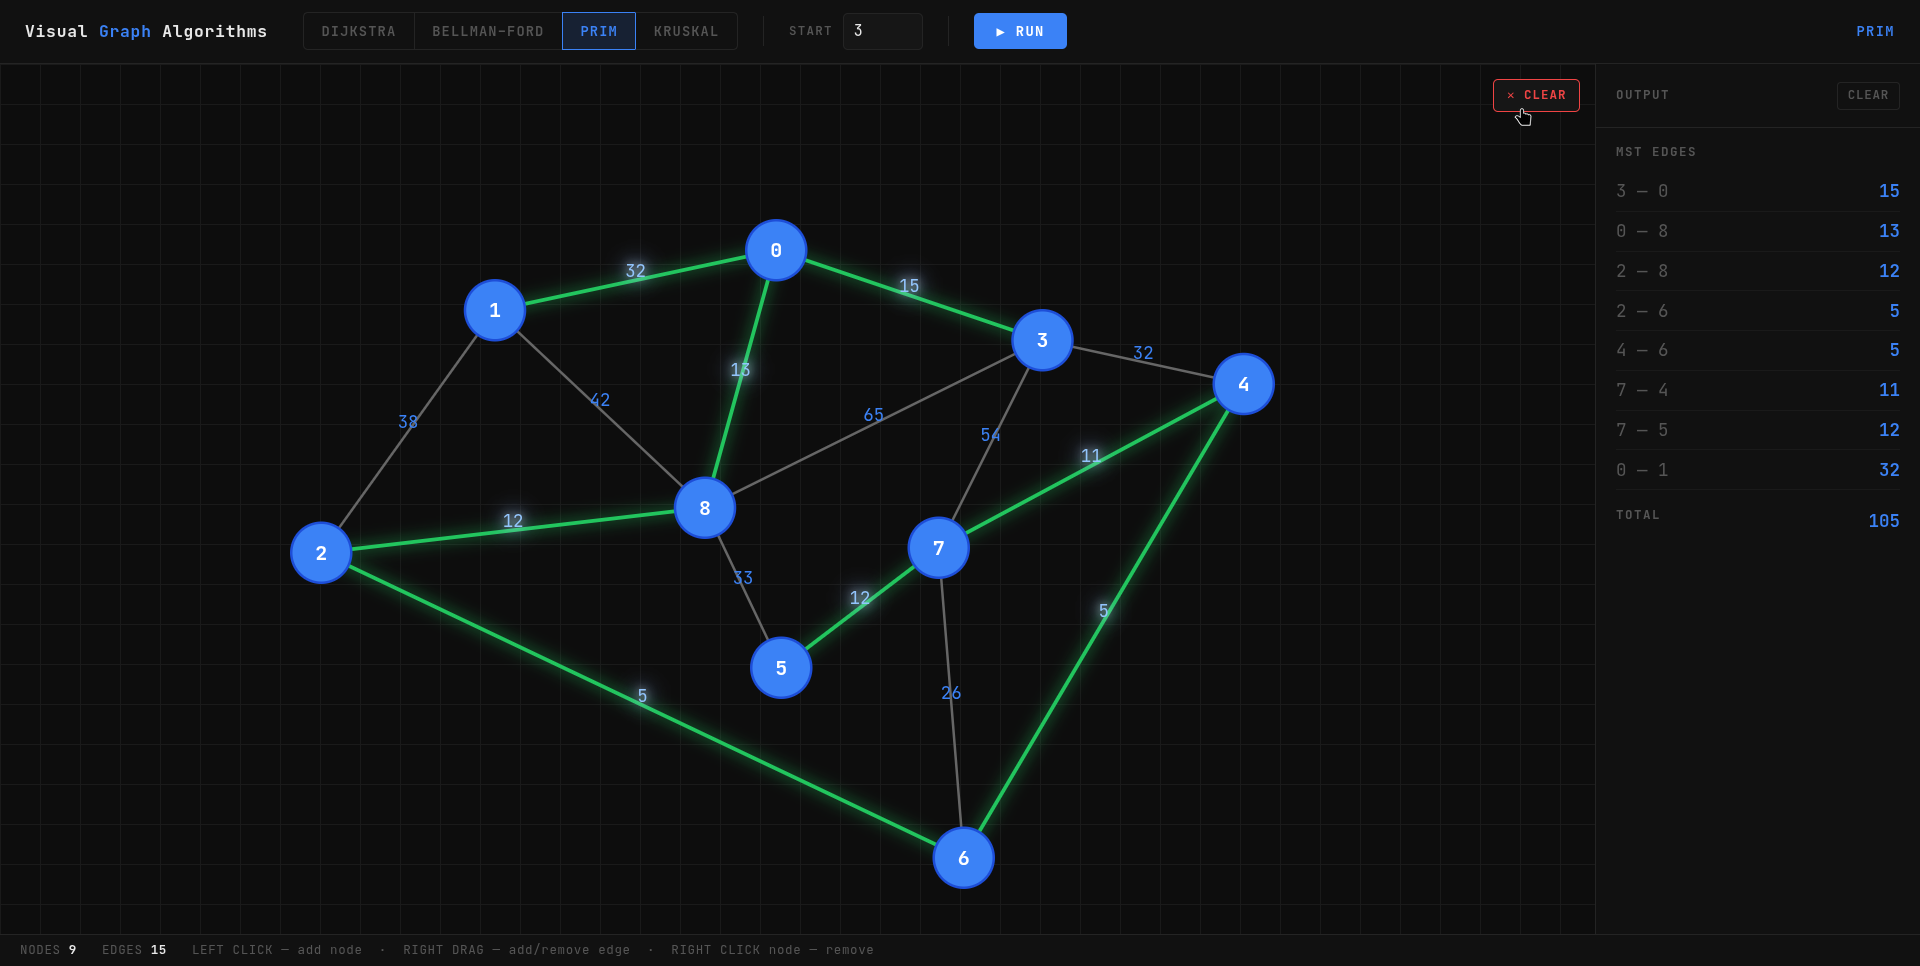
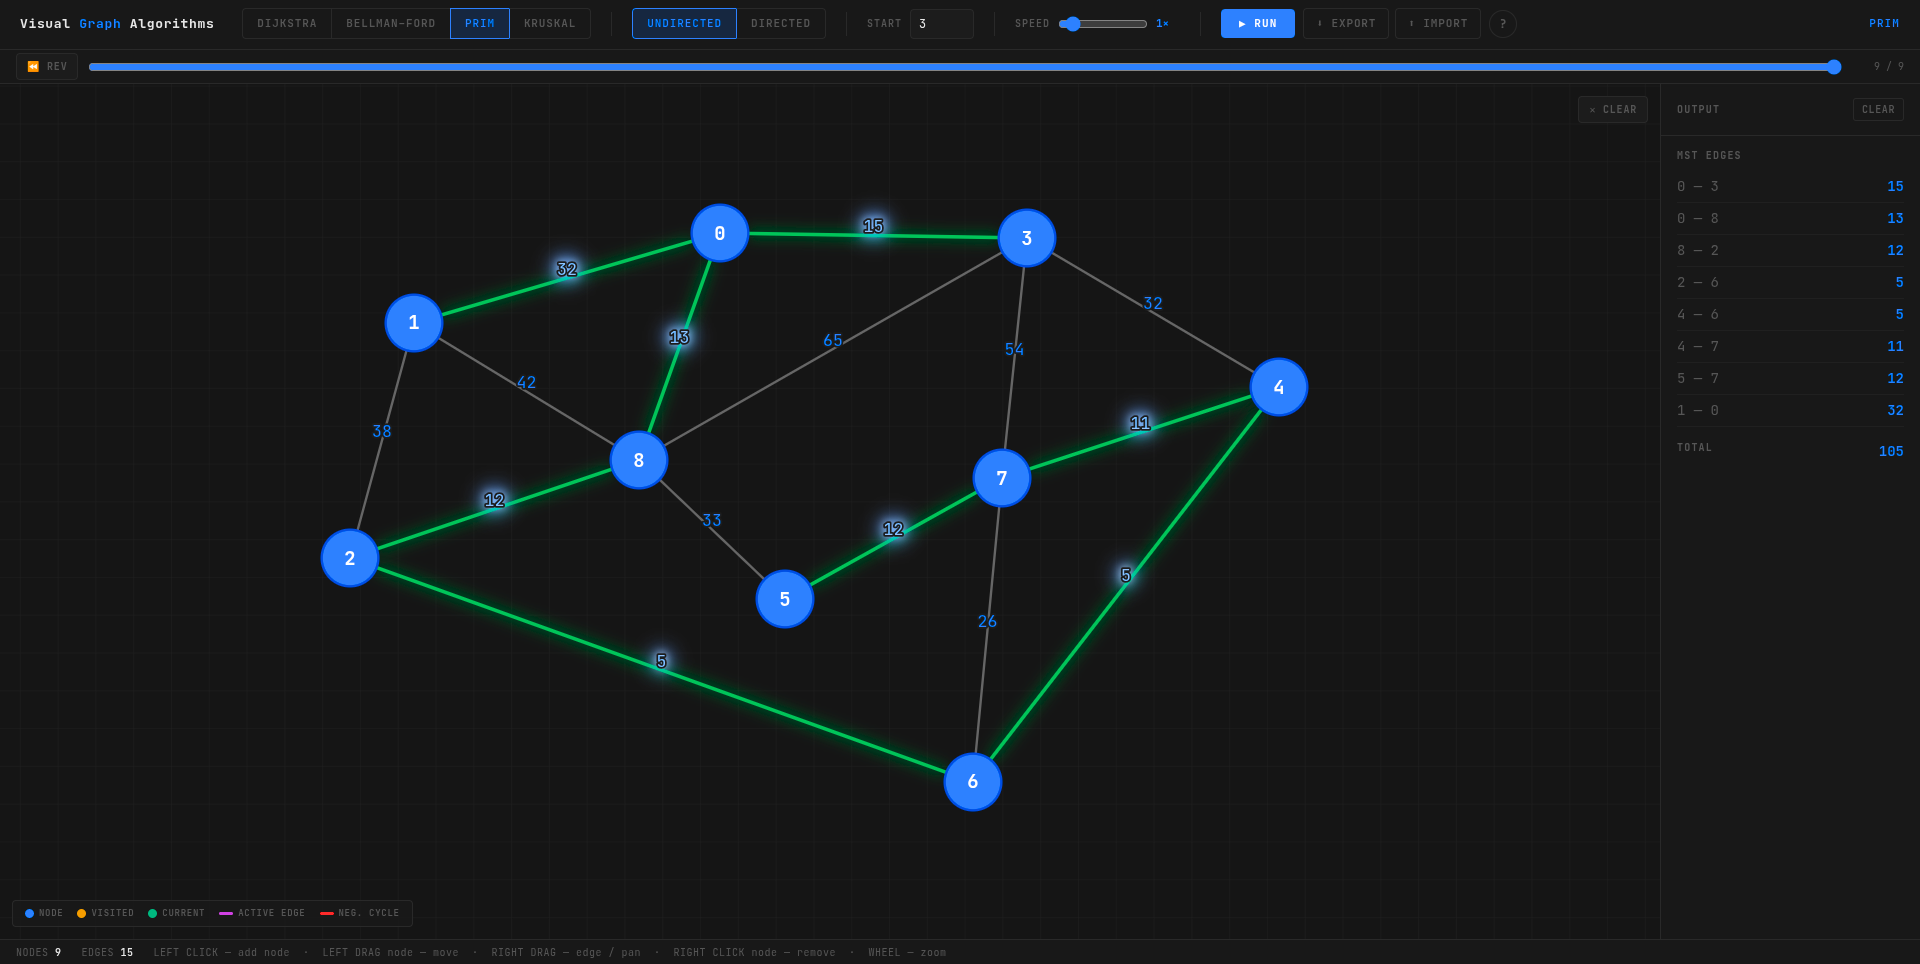
docs: add screenshots to README and refresh image set
- New Screenshots section: Dijkstra and Prim (desktop) plus the mobile view
  (shown at 260px so the portrait shot doesn't dominate the layout).
- Zoom & Pan section now states that panning is a right-drag on empty canvas.
- Refresh image set: drop bellman_example.png and clean_page.png, add
  dijkstra_example.png and mobil.jpeg, update prim_example.png.

diff --git a/README.md b/README.md
@@ -13,6 +13,16 @@ An interactive graph algorithm visualizer built with Vanilla JS and D3.js.
 | **Prim** | Minimum Spanning Tree | Builds an MST by greedily adding the cheapest edge from the visited set |
 | **Kruskal** | Minimum Spanning Tree | Builds an MST by sorting all edges and adding them without creating cycles |
 
+## Screenshots
+
+| Desktop — Dijkstra | Desktop — Prim |
+|---|---|
+| ![Dijkstra example](screenshots/dijkstra_example.png) | ![Prim example](screenshots/prim_example.png) |
+
+| Mobile |
+|---|
+| <img src="screenshots/mobil.jpeg" alt="Mobile view" width="260"> |
+
 ## Building a Graph
 
 - **Left click** on the canvas to add a node
@@ -25,7 +35,7 @@ An interactive graph algorithm visualizer built with Vanilla JS and D3.js.
 ### Zoom & Pan
 
 - **Mouse wheel** zooms in/out around the cursor.
-- **Drag empty canvas space** pans the view (works on desktop with the mouse).
+- **Right-drag empty canvas space** pans the view (desktop mouse).
 - **Pinch two fingers** zooms and pans on touch screens.
 - Nodes and edges always stay on screen — zooming only changes the view, not the graph.
 
